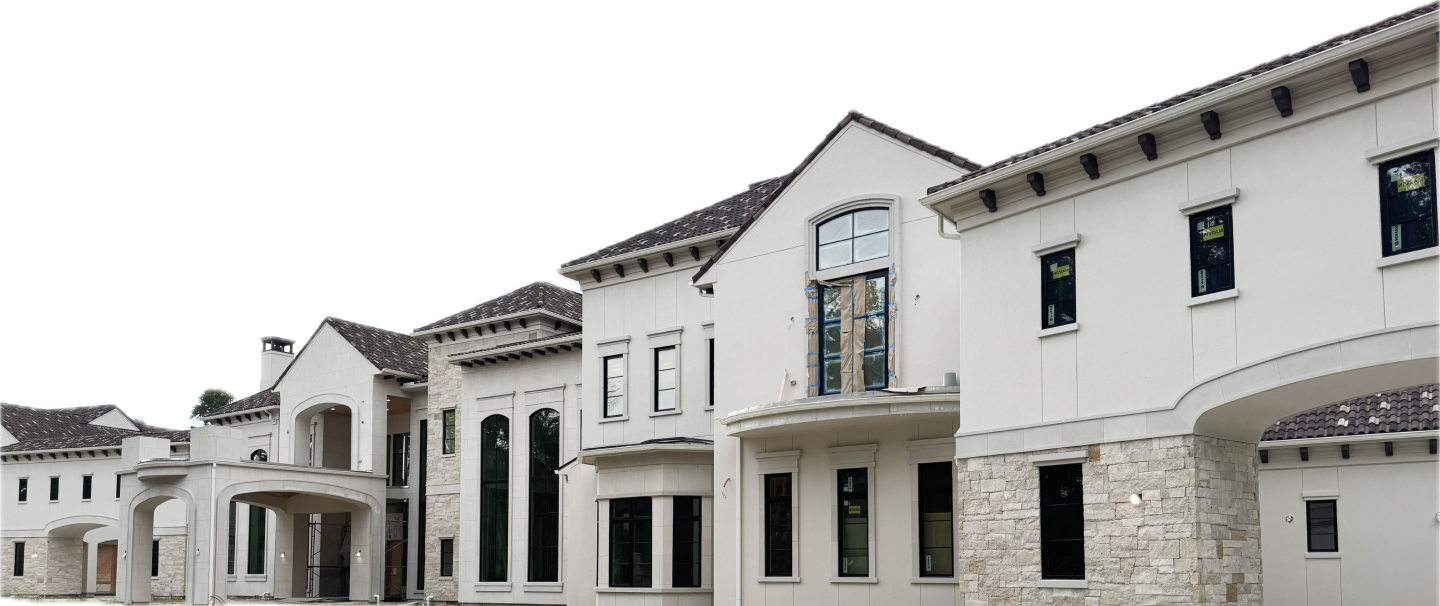
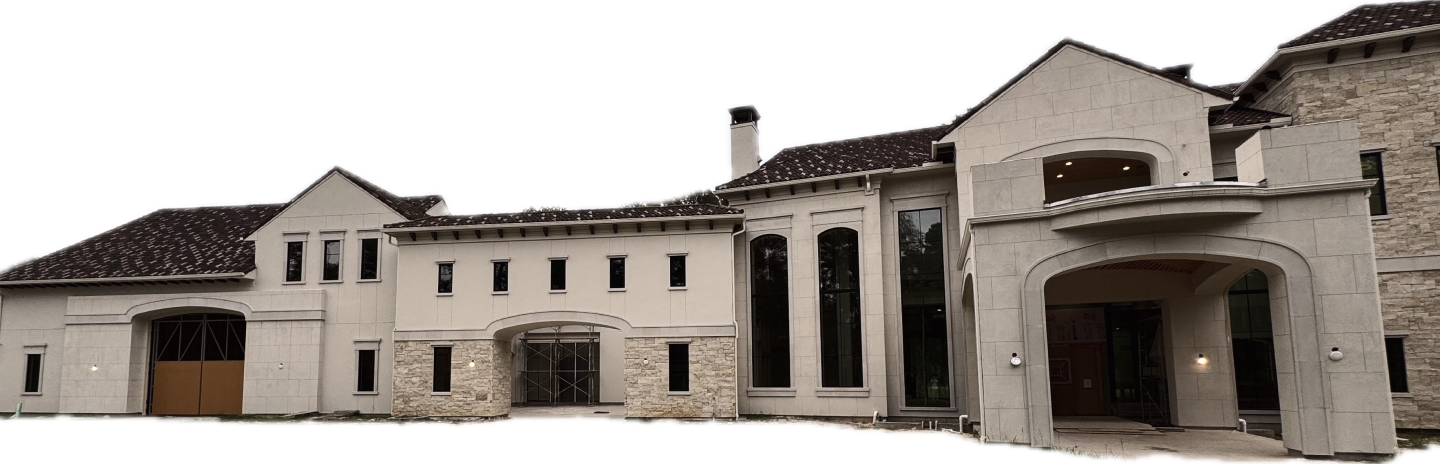
commit__104
Updates to villas website

diff --git a/testing/Villas-rd/assets/ETX-routes/style.css b/testing/Villas-rd/assets/ETX-routes/style.css
@@ -192,7 +192,7 @@ img{
     display: flex;
     justify-content: space-between;
     align-items: center;
-    box-shadow: 4px 4px 16px #0000002c;
+    box-shadow: 4px 4px 16px #0000006d;
     padding: 1rem 3rem;
     z-index: var(--z-fixed);
     transition: all .4s ease-in-out;
@@ -356,8 +356,8 @@ img{
 
 /* -================================= HOME SECTION 1 ================================- */
 .home{
-    height: 984px;
-    /* height: 100vh; */
+    /* height: 984px; */
+    height: 100vh;
     overflow: hidden;
 }
 
@@ -409,14 +409,15 @@ img{
 
 .home-background-image{
     position: absolute;
+    /* bottom: 400px; */
     bottom: 0;
     left: 0;
-    /* height: 100%; */
+    /* height: 110%; */
     height: 572px;
     width: 100%;
     z-index: -1;
     object-fit: cover;
-    filter: brightness(90%);
+    filter: saturate(0);
 }
 /* -============================================================================- */
 
@@ -792,6 +793,10 @@ img{
 
     .home-title{
         font-size: var(--big-font-size);
+    }
+
+    .home-background-image{
+        height: 900px;
     }
 
     /* .home-info-container{

diff --git a/testing/Villas-rd/index.html b/testing/Villas-rd/index.html
@@ -67,6 +67,7 @@
 
         <!-- =========================== HOME SECTION =============================== -->
         <section class="home section" id="home">
+
             <div class="home-container container flex-column">
                 <div class="home-info-container flex-column">
                     <h1 class="home-title bottom">Experience new living</h1>
@@ -81,8 +82,7 @@
                 </div>
             </div>
 
-
-            <img src="assets/IMG/Home-background-img.png" alt="Home background image" class="home-background-image">
+            <img src="assets/IMG/Home-background-image.png" alt="Home background image" class="home-background-image">
         </section>
         <!-- ========================================================== -->
 

diff --git a/testing/Villas-rd/assets/ETX-routes/main.js b/testing/Villas-rd/assets/ETX-routes/main.js
@@ -21,6 +21,16 @@ document.addEventListener("DOMContentLoaded", function() {
     gsap.registerPlugin(ScrollTrigger);
   });
 
+  gsap.to(".home-background-image", {
+    y: "300px",
+    scrollTrigger: {
+        trigger: "#home",
+        start: "top bottom",
+        end : "bottom top",
+        scrub: true
+    }
+  })
+
   gsap.to(".about-img", {
     // Set the parallax effect properties here
     x: "200px", // Move the image by 100px downwards when it comes into view
